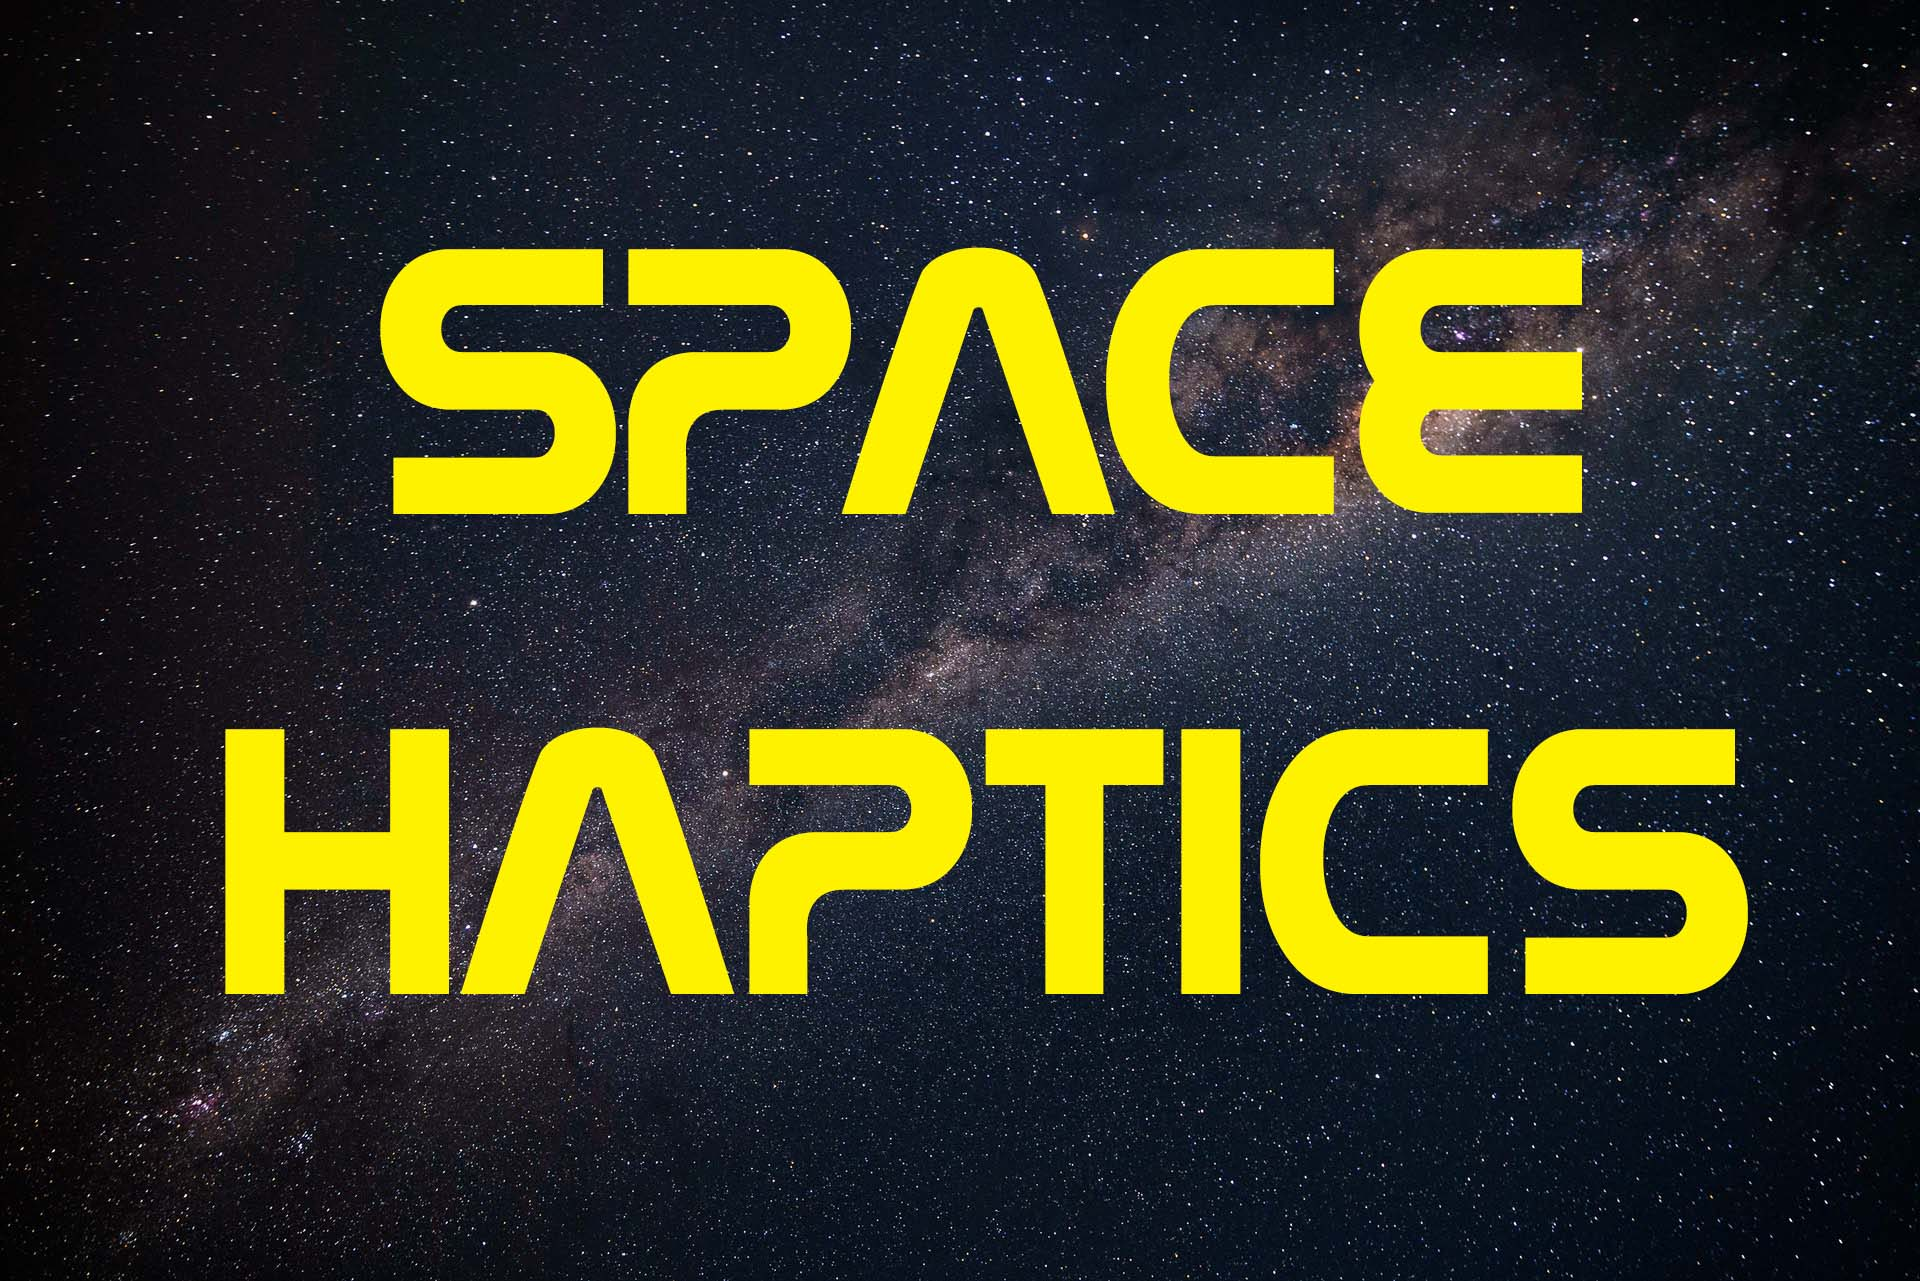
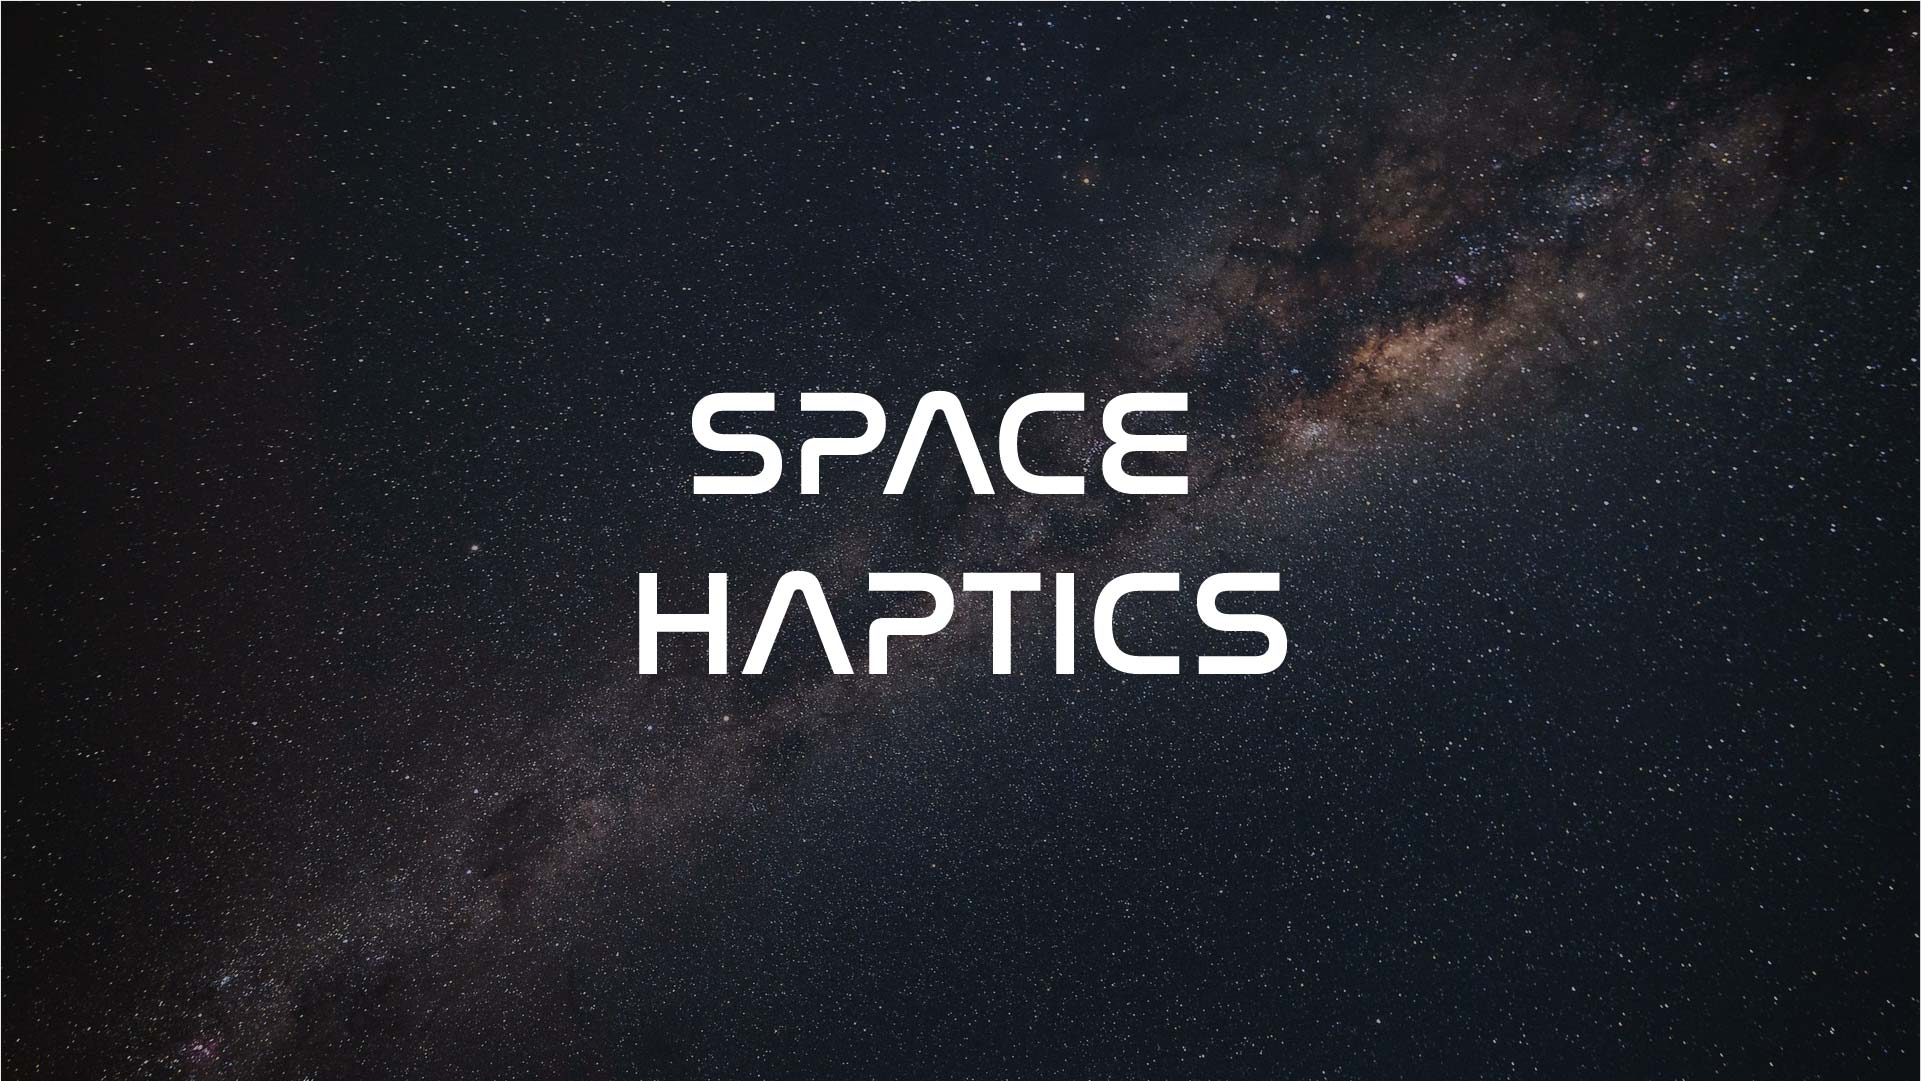
Added illustrations and replaced images, along with colors

diff --git a/index.html b/index.html
@@ -21,7 +21,7 @@
           <i class="fa fa-remove"></i>
         </a>
         <img class="portrait" src="img/portrait.jpg" class="w3-round"><br><br>
-        <h2>MAX HÄKKÄ</h2>
+        <h2 class="sidebar-header">MAX HÄKKÄ</h2>
       </div>
       <div class="w3-bar-block" id="nav-elements">
         <a id="prtf" href="#portfolio" onclick="w3_close()" class="w3-bar-item w3-button w3-padding menu-item"><i class="fa fa-th-large fa-fw w3-margin-right"></i>PORTFOLIO</a> 
@@ -53,7 +53,7 @@
           <div class="w3-row-padding">
             <div class="w3-third w3-container w3-margin-bottom card">
               <a class="card-content" href="foodrescue.html">
-                <img src="img/food-rescue.jpg" alt="Food Rescue" class="card-img">
+                <div class="card-img" style="background-image: url(img/food-rescue.jpg);"></div>
                 <div class="w3-container w3-white card-text">
                   <h3>Food Rescue</h3>
                   <p>An application for sharing and buying leftover foods from restaurants built with Ionic and Angular.</p>
@@ -62,7 +62,7 @@
             </div>
             <div class="w3-third w3-container w3-margin-bottom card">
               <a class="card-content" href="frontier.html">
-                <img src="img/frontier.png" alt="Frontier"  class="card-img">
+                <div class="card-img" style="background-image: url(img/frontier.png);"></div>
                 <div class="w3-container w3-white card-text">
                   <h3>Frontier</h3>
                   <p>A browser based, co-located multiplayer game about managing a planet's resources built with Angular.</p>
@@ -71,7 +71,6 @@
             </div>
             <div class="w3-third w3-container w3-margin-bottom card">
               <a class="card-content" href="sunny.html">
-                <img src="img/sunny-the-sunflower.jpg" alt="Sunny the Sunflower" class="card-img">
                 <div class="w3-container w3-white card-text">
                   <h3>Sunny the Sunflower</h3>
                   <p>An interactive robotic companion sunflower built with Arduino microcontrollers, sensors and motors.</p>
@@ -84,7 +83,7 @@
           <div class="w3-row-padding">
             <div class="w3-third w3-container w3-margin-bottom card">
               <a class="card-content" href="battlenub.html">
-                <img src="img/battlenub.jpg" alt="Battlenub" class=" card-img">
+                <div class="card-img" style="background-image: url(img/battlenub.jpg);"></div>
                 <div class="w3-container w3-white card-text">
                   <h3>Battlenub</h3>
                   <p>A browser based multiplayer Battleship game for phones, built with the PubNub data stream network.</p>
@@ -93,7 +92,7 @@
             </div>
             <div class="w3-third w3-container w3-margin-bottom card">
               <a class="card-content" href="spacehaptics.html">
-                <img src="img/space-haptics.jpg" alt="Space Haptics" class="card-img">
+                <div class="card-img" style="background-image: url(img/space-haptics.jpg);"></div>
                 <div class="w3-container w3-white card-text">
                   <h3>Space Haptics</h3>
                   <p>A haptics based computer game set in space for use with the Novint Falcon controller, built with C++.</p>
@@ -102,7 +101,7 @@
             </div>
             <div class="w3-third w3-container card">
               <a class="card-content" href="onlineclothingstore.html">
-                <img src="img/ocs-cover.jpg" alt="Online Clothing Store" class="card-img">
+                <div class="card-img" style="background-image: url(img/ocs-cover.jpg);"></div>
                 <div class="w3-container w3-white card-text">
                   <h3>Online Clothing Store</h3>
                   <p>A complete online web store for clothing built with the AngularJS framework, with a functioning back-end.</p>
@@ -150,21 +149,26 @@
 
         <!-- Contact Section -->
         <div class="section" id="contact">
-        <div class="w3-container w3-padding-large">
-          <h2>Contact</h2>
-          <p>Interested? Feel free to contact me!</p>
-          <br>
-          <form action="mailto:max.hakka@gmail.com" method="GET">
-            <label for="Subject">Subject</label>
-            <p class="inputfield">
-              <input class="w3-input w3-padding-16 w3-border" type="text" name="Subject">
-            </p>
-            <label for="Body">Message</label>
-            <p class="inputfield">
-              <textarea class="w3-input w3-padding-16 w3-border" name="Body"></textarea>
-            </p>
-            <p><button class="button submitbutton" type="submit">Send message</button></p>
-          </form>
+          <div class="w3-container w3-padding-large">
+            <div class="w3-half w3-margin-bottom">
+              <h2>Contact</h2>
+              <p>Interested? Don't hesitate to contact me!</p>
+              <br>
+              <form action="mailto:max.hakka@gmail.com" method="GET">
+                <label for="Subject">Subject</label>
+                <p class="inputfield">
+                  <input class="w3-input w3-padding-16 w3-border" type="text" name="Subject">
+                </p>
+                <label for="Body">Message</label>
+                <p class="inputfield">
+                  <textarea class="w3-input w3-padding-16 w3-border" name="Body"></textarea>
+                </p>
+                <p><button class="button submitbutton" type="submit">Send message</button></p>
+              </form>
+            </div>
+            <div class="w3-half w3-margin-bottom w3-margin-top">
+              <img src="img/contact.svg" alt="Contact illustration" class="illustration">
+            </div>
           </div>
         </div>
       </div>
@@ -198,7 +202,7 @@
           </div>
 
         <div class="w3-row-padding footer-bottom">
-          <p class="center-align">© MAX HÄKKÄ 2020 </p>
+          <p class="center-align">© MAX HÄKKÄ 2020 — Illustrations by <a href="https://freepik.com" class="footer-link">Freepik</a></p>
         </div>
       </div>
       </div>

diff --git a/spacehaptics.html b/spacehaptics.html
@@ -21,10 +21,10 @@
 				<i class="fa fa-remove"></i>
 			</a>
 			<img src="img/portrait.jpg" class="w3-round"><br><br>
-			<h2>MAX HÄKKÄ</h2>
+			<h2 class="sidebar-header">MAX HÄKKÄ</h2>
 			</div>
 			<div class="w3-bar-block" id="nav-elements">
-			<a id="prtf" href="index.html#portfolio" onclick="w3_close()" class="w3-bar-item w3-button w3-padding menu-item"><i class="fa fa-th-large fa-fw w3-margin-right"></i>PORTFOLIO</a> 
+			<a id="prtf" href="index.html#portfolio" onclick="w3_close()" class="w3-bar-item w3-button w3-padding menu-item active"><i class="fa fa-th-large fa-fw w3-margin-right"></i>PORTFOLIO</a> 
 			<a id="abt" href="index.html#about" onclick="w3_close()" class="w3-bar-item w3-button w3-padding menu-item"><i class="fa fa-user fa-fw w3-margin-right"></i>ABOUT ME</a>
 			<a id="cntct" href="index.html#contact" onclick="w3_close()" class="w3-bar-item w3-button w3-padding menu-item"><i class="fa fa-envelope fa-fw w3-margin-right"></i>CONTACT</a>
 			</div>
@@ -57,7 +57,7 @@
 
 					<div class="w3-container w3-row-padding w3-padding-16">
 						<div class="video-container">
-							<video poster="/img/space-haptics-thumbnail.jpg" controls>
+							<video poster="/img/space-haptics.jpg" controls>
 									<source src="img/space_haptics.mp4" type="video/mp4">
 									Your browser does not support HTML5 video
 							</video>
@@ -116,7 +116,7 @@
 				</div>
 	
 			<div class="w3-row-padding footer-bottom">
-				<p class="center-align">MAX HÄKKÄ © 2020 </p>
+				<p class="center-align">MAX HÄKKÄ © 2020  — Illustrations by <a href="https://freepik.com" class="footer-link">Freepik</a></p>
 			</div>
 			</div>
 			</div>

diff --git a/js/menu.js b/js/menu.js
@@ -2,7 +2,7 @@
 var targetOffset = $("#about").offset().top;
 var secondTargetOffset = $("#contact").offset().top;
 
-$('#prtf').css({"color":"black"});
+$('#prtf').css({"color":"rgb(111, 0, 255)"});
 $('#prtf').css({"background-color":"white"});
 
 var $w = $(window).scroll(function(){
@@ -11,17 +11,17 @@ var $w = $(window).scroll(function(){
       $('#prtf').css({"background-color":"transparent"});
       $('#abt').css({"color":"white"});
       $('#abt').css({"background-color":"transparent"});
-      $('#cntct').css({"color":"black"});
+      $('#cntct').css({"color":"rgb(111, 0, 255)"});
       $('#cntct').css({"background-color":"white"});
     } else if ( $w.scrollTop() >= targetOffset){
       $('#prtf').css({"color":"white"});
       $('#prtf').css({"background-color":"transparent"});
-      $('#abt').css({"color":"black"});
+      $('#abt').css({"color":"rgb(111, 0, 255)"});
       $('#abt').css({"background-color":"white"});
       $('#cntct').css({"color":"white"});
       $('#cntct').css({"background-color":"transparent"});
     } else {
-      $('#prtf').css({"color":"black"});
+      $('#prtf').css({"color":"rgb(111, 0, 255)"});
       $('#prtf').css({"background-color":"white"});
       $('#abt').css({"color":"white"});
       $('#abt').css({"background-color":"transparent"});

diff --git a/battlenub.html b/battlenub.html
@@ -21,10 +21,10 @@
 				<i class="fa fa-remove"></i>
 			</a>
 			<img src="img/portrait.jpg" class="w3-round"><br><br>
-			<h2>MAX HÄKKÄ</h2>
+			<h2 class="sidebar-header">MAX HÄKKÄ</h2>
 			</div>
 			<div class="w3-bar-block" id="nav-elements">
-			<a id="prtf" href="index.html#portfolio" onclick="w3_close()" class="w3-bar-item w3-button w3-padding menu-item"><i class="fa fa-th-large fa-fw w3-margin-right"></i>PORTFOLIO</a> 
+			<a id="prtf" href="index.html#portfolio" onclick="w3_close()" class="w3-bar-item w3-button w3-padding menu-item active"><i class="fa fa-th-large fa-fw w3-margin-right"></i>PORTFOLIO</a> 
 			<a id="abt" href="index.html#about" onclick="w3_close()" class="w3-bar-item w3-button w3-padding menu-item"><i class="fa fa-user fa-fw w3-margin-right"></i>ABOUT ME</a>
 			<a id="cntct" href="index.html#contact" onclick="w3_close()" class="w3-bar-item w3-button w3-padding menu-item"><i class="fa fa-envelope fa-fw w3-margin-right"></i>CONTACT</a>
 			</div>
@@ -120,7 +120,7 @@
 				</div>
 	
 			<div class="w3-row-padding footer-bottom">
-				<p class="center-align">MAX HÄKKÄ © 2020 </p>
+				<p class="center-align">MAX HÄKKÄ © 2020  — Illustrations by <a href="https://freepik.com" class="footer-link">Freepik</a></p>
 			</div>
 			</div>
 			</div>

diff --git a/foodrescue.html b/foodrescue.html
@@ -21,10 +21,10 @@
 				<i class="fa fa-remove"></i>
 			</a>
 			<img src="img/portrait.jpg" class="w3-round"><br><br>
-			<h2>MAX HÄKKÄ</h2>
+			<h2 class="sidebar-header">MAX HÄKKÄ</h2>
 			</div>
 			<div class="w3-bar-block" id="nav-elements">
-			<a id="prtf" href="index.html#portfolio" onclick="w3_close()" class="w3-bar-item w3-button w3-padding menu-item"><i class="fa fa-th-large fa-fw w3-margin-right"></i>PORTFOLIO</a> 
+			<a id="prtf" href="index.html#portfolio" onclick="w3_close()" class="w3-bar-item w3-button w3-padding menu-item active"><i class="fa fa-th-large fa-fw w3-margin-right"></i>PORTFOLIO</a> 
 			<a id="abt" href="index.html#about" onclick="w3_close()" class="w3-bar-item w3-button w3-padding menu-item"><i class="fa fa-user fa-fw w3-margin-right"></i>ABOUT ME</a>
 			<a id="cntct" href="index.html#contact" onclick="w3_close()" class="w3-bar-item w3-button w3-padding menu-item"><i class="fa fa-envelope fa-fw w3-margin-right"></i>CONTACT</a>
 			</div>
@@ -120,7 +120,7 @@
 				</div>
 	
 			<div class="w3-row-padding footer-bottom">
-				<p class="center-align">MAX HÄKKÄ © 2020 </p>
+				<p class="center-align">MAX HÄKKÄ © 2020  — Illustrations by <a href="https://freepik.com" class="footer-link">Freepik</a></p>
 			</div>
 			</div>
 			</div>

diff --git a/frontier.html b/frontier.html
@@ -21,10 +21,10 @@
 				<i class="fa fa-remove"></i>
 			</a>
 			<img src="img/portrait.jpg" class="w3-round"><br><br>
-			<h2>MAX HÄKKÄ</h2>
+			<h2 class="sidebar-header">MAX HÄKKÄ</h2>
 			</div>
 			<div class="w3-bar-block" id="nav-elements">
-			<a id="prtf" href="index.html#portfolio" onclick="w3_close()" class="w3-bar-item w3-button w3-padding menu-item"><i class="fa fa-th-large fa-fw w3-margin-right"></i>PORTFOLIO</a> 
+			<a id="prtf" href="index.html#portfolio" onclick="w3_close()" class="w3-bar-item w3-button w3-padding menu-item active"><i class="fa fa-th-large fa-fw w3-margin-right"></i>PORTFOLIO</a> 
 			<a id="abt" href="index.html#about" onclick="w3_close()" class="w3-bar-item w3-button w3-padding menu-item"><i class="fa fa-user fa-fw w3-margin-right"></i>ABOUT ME</a>
 			<a id="cntct" href="index.html#contact" onclick="w3_close()" class="w3-bar-item w3-button w3-padding menu-item"><i class="fa fa-envelope fa-fw w3-margin-right"></i>CONTACT</a>
 			</div>
@@ -114,7 +114,7 @@
 				</div>
 	
 			<div class="w3-row-padding footer-bottom">
-				<p class="center-align">MAX HÄKKÄ © 2020 </p>
+				<p class="center-align">MAX HÄKKÄ © 2020  — Illustrations by <a href="https://freepik.com" class="footer-link">Freepik</a></p>
 			</div>
 			</div>
 			</div>

diff --git a/onlineclothingstore.html b/onlineclothingstore.html
@@ -21,10 +21,10 @@
 				<i class="fa fa-remove"></i>
 			</a>
 			<img src="img/portrait.jpg" class="w3-round"><br><br>
-			<h2>MAX HÄKKÄ</h2>
+			<h2 class="sidebar-header">MAX HÄKKÄ</h2>
 			</div>
 			<div class="w3-bar-block" id="nav-elements">
-			<a id="prtf" href="index.html#portfolio" onclick="w3_close()" class="w3-bar-item w3-button w3-padding menu-item"><i class="fa fa-th-large fa-fw w3-margin-right"></i>PORTFOLIO</a> 
+			<a id="prtf" href="index.html#portfolio" onclick="w3_close()" class="w3-bar-item w3-button w3-padding menu-item active"><i class="fa fa-th-large fa-fw w3-margin-right"></i>PORTFOLIO</a> 
 			<a id="abt" href="index.html#about" onclick="w3_close()" class="w3-bar-item w3-button w3-padding menu-item"><i class="fa fa-user fa-fw w3-margin-right"></i>ABOUT ME</a>
 			<a id="cntct" href="index.html#contact" onclick="w3_close()" class="w3-bar-item w3-button w3-padding menu-item"><i class="fa fa-envelope fa-fw w3-margin-right"></i>CONTACT</a>
 			</div>
@@ -125,7 +125,7 @@
 				</div>
 	
 			<div class="w3-row-padding footer-bottom">
-				<p class="center-align">MAX HÄKKÄ © 2020 </p>
+				<p class="center-align">MAX HÄKKÄ © 2020  — Illustrations by <a href="https://freepik.com" class="footer-link">Freepik</a></p>
 			</div>
 			</div>
 			</div>

diff --git a/sunny.html b/sunny.html
@@ -21,10 +21,10 @@
 				<i class="fa fa-remove"></i>
 			</a>
 			<img src="img/portrait.jpg" class="w3-round"><br><br>
-			<h2>MAX HÄKKÄ</h2>
+			<h2 class="sidebar-header">MAX HÄKKÄ</h2>
 			</div>
 			<div class="w3-bar-block" id="nav-elements">
-			<a id="prtf" href="index.html#portfolio" onclick="w3_close()" class="w3-bar-item w3-button w3-padding menu-item"><i class="fa fa-th-large fa-fw w3-margin-right"></i>PORTFOLIO</a> 
+			<a id="prtf" href="index.html#portfolio" onclick="w3_close()" class="w3-bar-item w3-button w3-padding menu-item active"><i class="fa fa-th-large fa-fw w3-margin-right"></i>PORTFOLIO</a> 
 			<a id="abt" href="index.html#about" onclick="w3_close()" class="w3-bar-item w3-button w3-padding menu-item"><i class="fa fa-user fa-fw w3-margin-right"></i>ABOUT ME</a>
 			<a id="cntct" href="index.html#contact" onclick="w3_close()" class="w3-bar-item w3-button w3-padding menu-item"><i class="fa fa-envelope fa-fw w3-margin-right"></i>CONTACT</a>
 			</div>
@@ -113,7 +113,7 @@
 				</div>
 	
 			<div class="w3-row-padding footer-bottom">
-				<p class="center-align">MAX HÄKKÄ © 2020 </p>
+				<p class="center-align">MAX HÄKKÄ © 2020  — Illustrations by <a href="https://freepik.com" class="footer-link">Freepik</a></p>
 			</div>
 			</div>
 			</div>

diff --git a/css/stylesheet.css b/css/stylesheet.css
@@ -32,9 +32,13 @@ h3 {
   z-index: 3;
   width: 200px;
   box-shadow: 5px 16px 24px 2px rgba(0,0,0,0.4);
-  background: rgb(111, 0, 255);
-  background: linear-gradient(rgb(111, 0, 255), rgb(207, 45, 212));
+  background: #222;
   color: white;
+}
+
+.sidebar-header {
+  font-family: Arial, Helvetica, sans-serif;
+  font-weight: bold;
 }
 
 .bottombar {
@@ -108,6 +112,16 @@ a:hover{
   width: 100%;
 }
 
+.active {
+  color: black;
+  background-color: white;
+
+}
+
+.illustration {
+  margin: 24px 0 24px 16px;
+}
+
 .card {
   transition: all 0.3s ease;
 }
@@ -122,7 +136,11 @@ a:hover{
 }
 
 .card-img {
-  width: 100%;
+  height: 200px;
+  width: auto;
+  background-position: center center;
+  background-size: cover;
+  background-repeat: no-repeat;
   border-radius: 10px 10px 0 0;
   box-shadow: 0 -16px 24px 2px rgba(0,29,63,0.14);
 }
@@ -132,9 +150,12 @@ a:hover{
   box-shadow: 0 16px 24px 2px rgba(0,29,63,0.14);
 }
 
+.card-text:focus {
+  outline: none;
+}
+
 .card-header {
   background: rgb(111, 0, 255);
-  background: linear-gradient(rgb(111, 0, 255), rgb(207, 45, 212));
   color: white;
   border-radius: 10px 10px 0 0;
 }
@@ -268,7 +289,6 @@ video {
   }
 }
 
-@media (max-width: 993px) {
   .page-content {
     width: 100%;
   }
